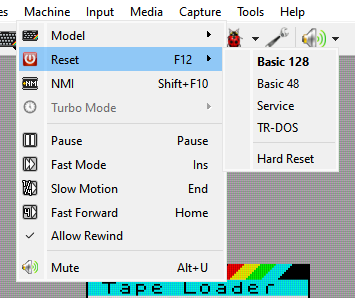
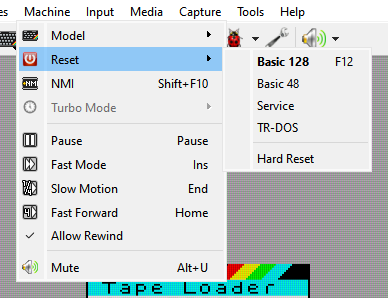
manual: the reset key beside the bold ROM in Machine > Reset; on macOS a click on Reset or Gamepads only opens the menu

diff --git a/docs/manual/machines.md b/docs/manual/machines.md
@@ -90,8 +90,9 @@ Opening a file can switch the machine too, when the current one cannot run it. S
 
 A click on **Machine > Reset** resets the machine. Its menu lists where a reset can take
 the machine: the ROMs it can start from, such as **Basic 128**, **Basic 48**, **Service**
-and **TR-DOS**. The one in bold is the ROM a plain reset starts from. **TR-DOS** is there
-only when the machine has a Beta Disk interface.
+and **TR-DOS**. The one in bold is the ROM a plain reset starts from, with the reset key
+beside it. **TR-DOS** is there only when the machine has a Beta Disk interface. On macOS a
+click on **Reset** only opens the menu: the bold item is the plain reset there.
 
 ![Machine > Reset on a Pentagon](images/menu-reset.png)
 

diff --git a/docs/manual/input.md b/docs/manual/input.md
@@ -171,7 +171,7 @@ joystick, and W, A, S, D with left Shift or left Ctrl are the second.
 ![The Gamepads window](images/gamepads.png)
 
 A click on **Input > Gamepads**, or **Input > Gamepads > Manage...**, opens the **Gamepads**
-window. It has a tab for each of two
+window (on macOS, **Manage...** only). It has a tab for each of two
 players, **Player 1** and **Player 2**. A change takes effect at once; there is nothing to
 apply.
 
